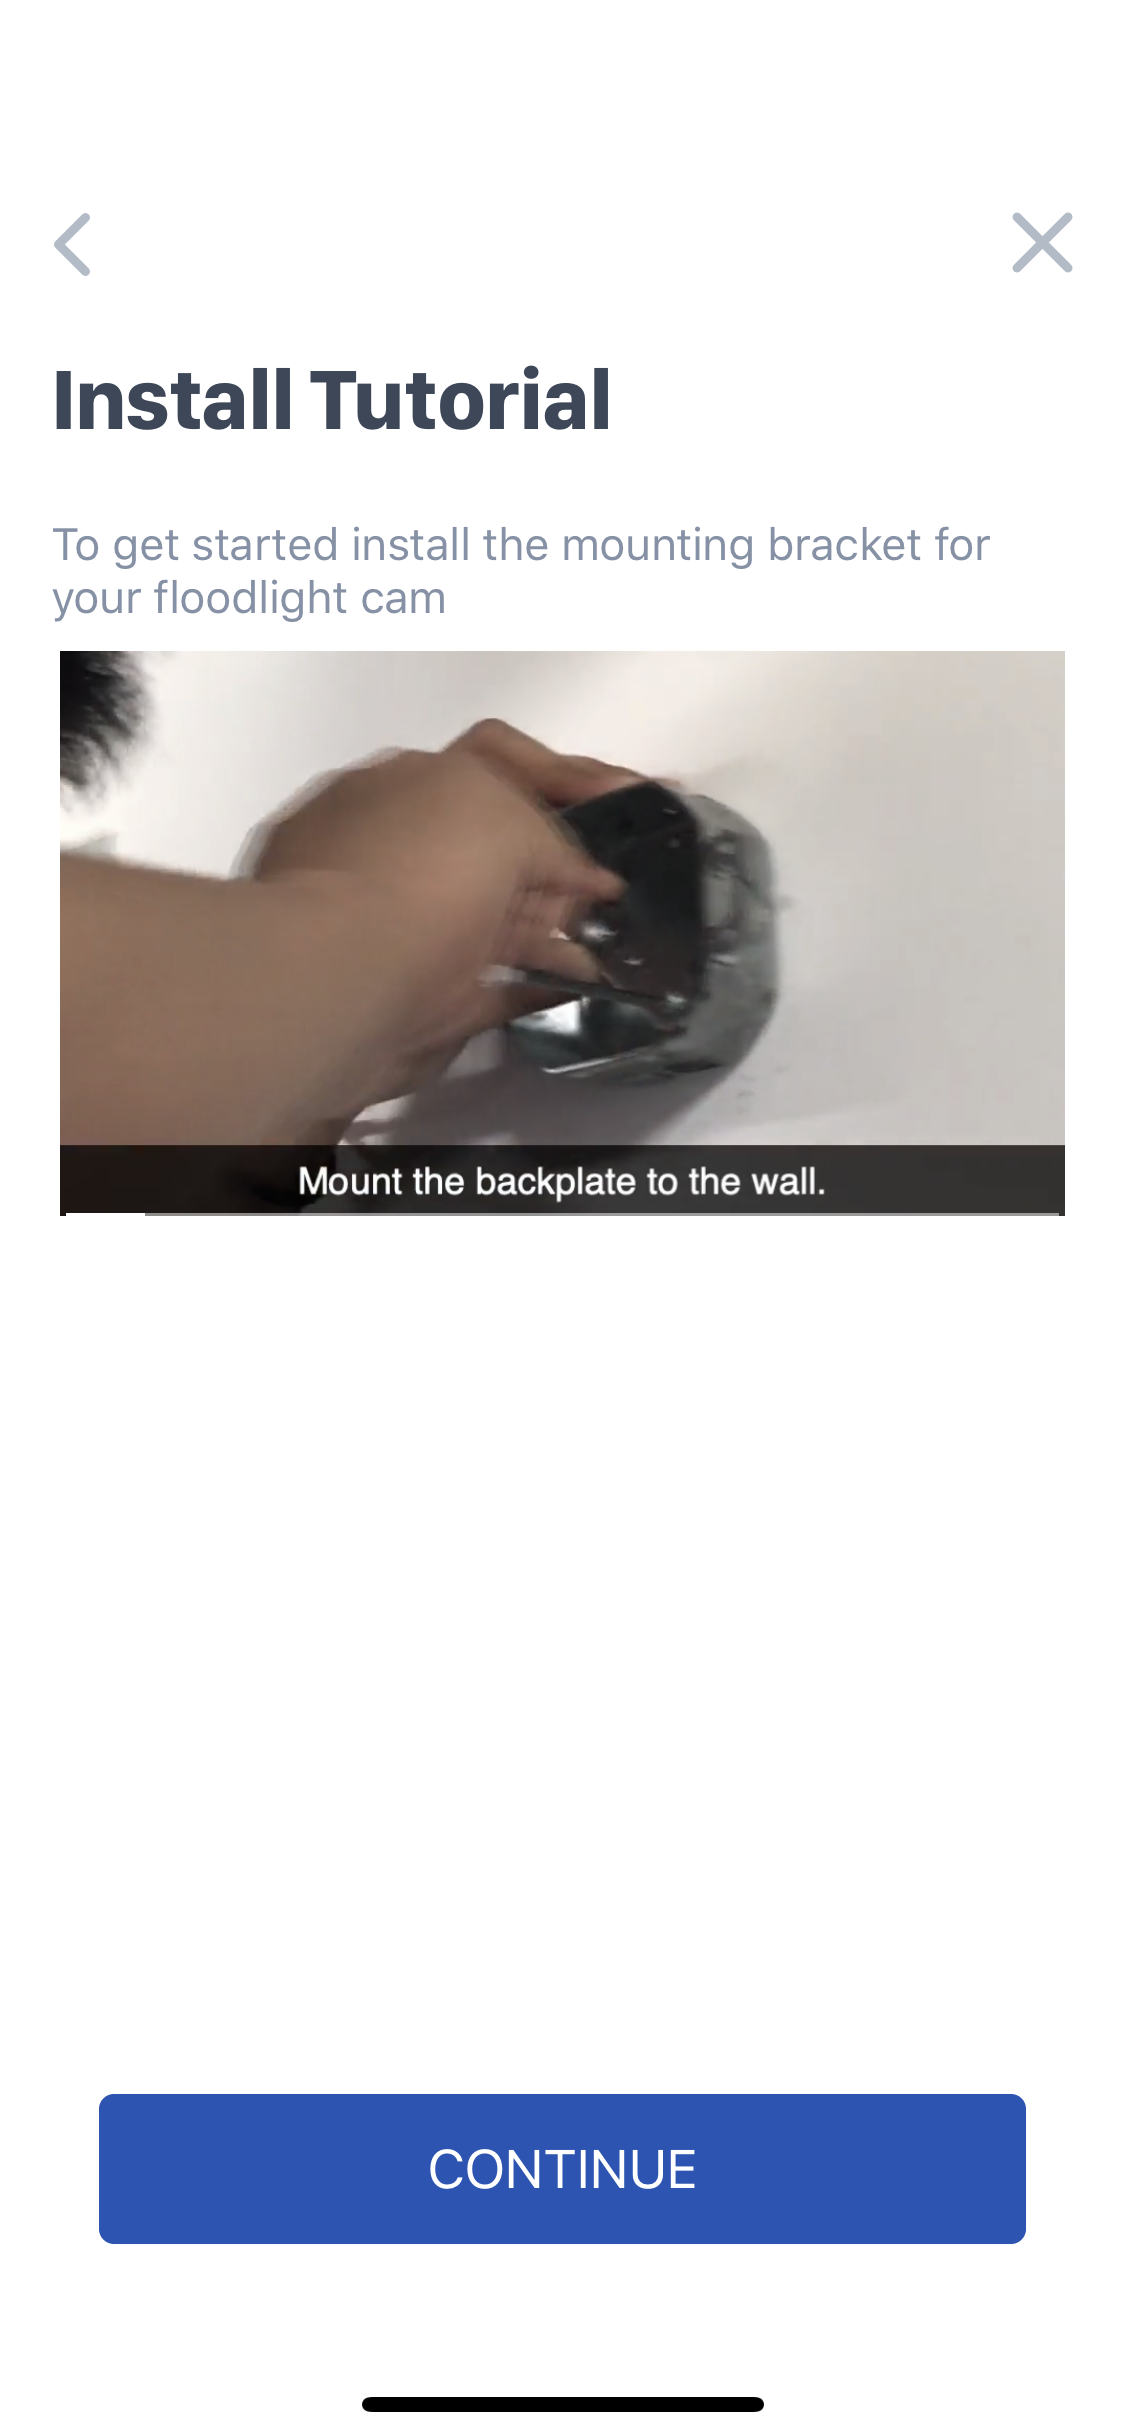
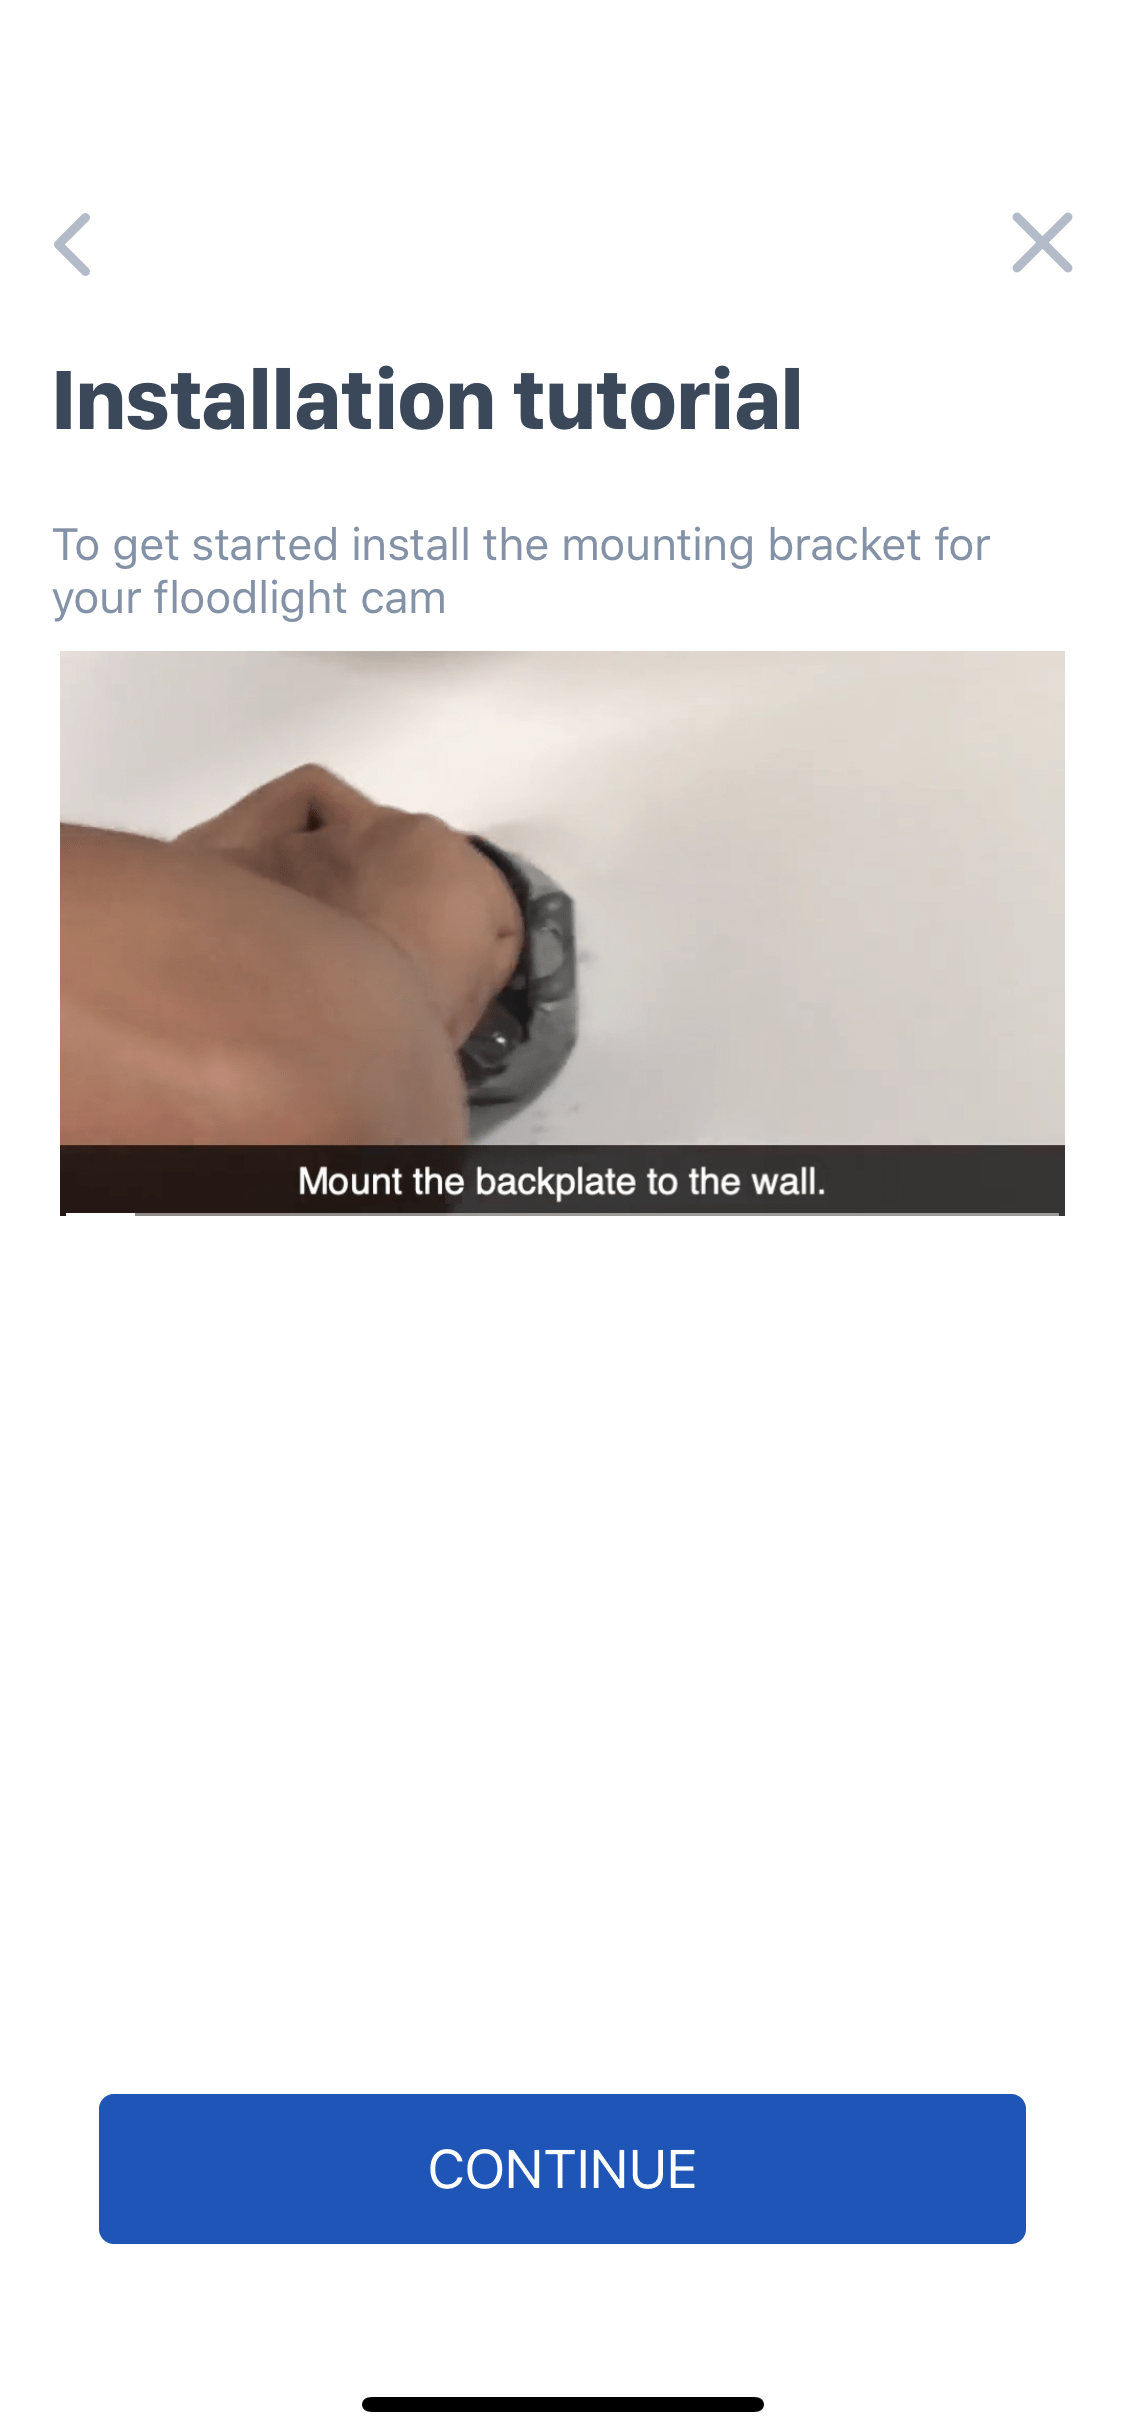
压缩图片

Changed region(s): [[0.0311, 0.2496, 0.7156, 0.4992], [0.2489, 0.1248, 0.7156, 0.1872], [0.5911, 0.2496, 0.6222, 0.2808]]

diff --git a/README.md b/README.md
@@ -45,7 +45,7 @@ Fix the product and the camera to suitable positions. Then connect the product w
 
 ![](./images/7.PNG)
 
-3. Reading the install tutorial
+3. Reading the installation tutorial
 
 ![](./images/8.PNG)
 
